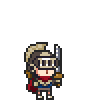
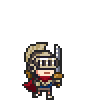
사진 변경 및 달리기 사진 2장 -> 애니메이션 넘어가는 속도 조절

diff --git a/2DGP-PROJ-Python-2022180040/tuar.py b/2DGP-PROJ-Python-2022180040/tuar.py
@@ -61,7 +61,7 @@ class Run:
         self.frame_time = 0
 
         if not self.images:
-            for i in range(1, 4):
+            for i in range(1, 3):
                 filename =  f'image_file/char/tuar01/tuar_{i:02d}.png'
                 self.images.append(load_image(filename))
 
@@ -72,7 +72,12 @@ class Run:
         pass
 
     def do(self):
-        self.tuar.frame = (self.tuar.frame + 1) % len(self.images)
+        self.frame_time += get_time()
+
+        if self.frame_time > 0.3:
+            self.tuar.frame = (self.tuar.frame + 1) % len(self.images)
+            self.frame_time = 0
+
         self.tuar.x += self.tuar.dir * 1
 
     def draw(self):
